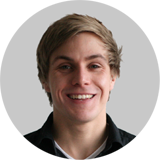
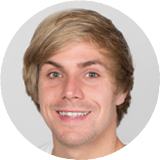
added different images to carousel and updated developer image

diff --git a/index.html b/index.html
@@ -195,13 +195,13 @@
                 </ol>
               <div class="carousel-inner">
                 <div class="carousel-item active">
-                  <img class="d-block w-80" src="assets/images/gallery/carousel1.jpg" alt="First slide">
+                  <img class="d-block w-80" src="assets/images/gallery/carousel1.png" alt="First slide">
                 </div>
                 <div class="carousel-item">
-                  <img class="d-block w-100" src="assets/images/gallery/carousel1.jpg" alt="Second slide">
+                  <img class="d-block w-100" src="assets/images/gallery/carousel2.png" alt="Second slide">
                 </div>
                 <div class="carousel-item">
-                  <img class="d-block w-100" src="assets/images/gallery/carousel1.jpg" alt="Third slide">
+                  <img class="d-block w-100" src="assets/images/gallery/carousel3.png" alt="Third slide">
                 </div>
               </div>
               <a class="carousel-control-prev" href="#carouselExampleControls" role="button" data-slide="prev">
@@ -213,7 +213,6 @@
                 <span class="sr-only">Next</span>
               </a>
             </div>
-            <!--//carousel-->
         </div>
         <!--//container-->
     </section>
@@ -473,7 +472,7 @@
                             <a target="_blank" rel="noopener noreferrer" href="https://www.uni-ulm.de/en/in/mi/institute/mi-mitarbeiter/timo-ropinski/">
                                 <div class="image-container">
                                     <div class="image-overlay"></div>
-                                    <img class="img-responsive" src="assets/images/timo_ropinski.png" alt="" />
+                                    <img class="img-responsive" src="assets/images/timo_ropinski.png" alt="Timo Ropinski" />
                                 </div>
                                 <!--//image-container-->
                                 <h3 class="title">Timo Ropinski</h3>
@@ -488,7 +487,7 @@
                             <a target="_blank" rel="noopener noreferrer" href="http://scivis.itn.liu.se/members/peter-steneteg">
                                 <div class="image-container">
                                     <div class="image-overlay"></div>
-                                    <img class="img-responsive" src="assets/images/peter_steneteg.png" alt="" />
+                                    <img class="img-responsive" src="assets/images/peter_steneteg.png" alt="Peter Steneteg" />
                                 </div>
                                 <!--//image-container-->
                                 <h3 class="title">Peter Steneteg</h3>
@@ -503,7 +502,7 @@
                             <a target="_blank" rel="noopener noreferrer" href="http://scivis.itn.liu.se/members/rickard-englund">
                                 <div class="image-container">
                                     <div class="image-overlay"></div>
-                                    <img class="img-responsive" src="assets/images/rickard_englund.png" alt="" />
+                                    <img class="img-responsive" src="assets/images/rickard_englund.png" alt="Rickard Englund" />
                                 </div>
                                 <!--//image-container-->
                                 <h3 class="title">Rickard Englund</h3>
@@ -518,7 +517,7 @@
                             <a target="_blank" rel="noopener noreferrer" href="http://scivis.itn.liu.se/members/daniel-jonsson">
                                 <div class="image-container">
                                     <div class="image-overlay"></div>
-                                    <img class="img-responsive" src="assets/images/daniel_jonsson.png" alt="" />
+                                    <img class="img-responsive" src="assets/images/daniel_jonsson.png" alt="Daniel Jönsson" />
                                 </div>
                                 <!--//image-container-->
                                 <h3 class="title">Daniel Jönsson</h3>
@@ -533,7 +532,7 @@
                             <a target="_blank" rel="noopener noreferrer" href="http://scivis.itn.liu.se/members/martin-falk">
                                 <div class="image-container">
                                     <div class="image-overlay"></div>
-                                    <img class="img-responsive" src="assets/images/martin_falk.png" alt="" />
+                                    <img class="img-responsive" src="assets/images/martin_falk.png" alt="Martin Falk" />
                                 </div>
                                 <!--//image-container-->
                                 <h3 class="title">Martin Falk</h3>
@@ -548,7 +547,7 @@
                             <a target="_blank" rel="noopener noreferrer" href="http://scivis.itn.liu.se/members/erik-sunden">
                                 <div class="image-container">
                                     <div class="image-overlay"></div>
-                                    <img class="img-responsive" src="assets/images/erik_sunden.png" alt="" />
+                                    <img class="img-responsive" src="assets/images/erik_sunden.png" alt="Erik Sundén" />
                                 </div>
                                 <!--//image-container-->
                                 <h3 class="title">Erik Sundén</h3>
@@ -563,7 +562,7 @@
                             <a target="_blank" rel="noopener noreferrer" href="http://scivis.itn.liu.se/members/sathish-kottravel">
                                 <div class="image-container">
                                     <div class="image-overlay"></div>
-                                    <img class="img-responsive" src="assets/images/sathish_kottravel.png" alt="" />
+                                    <img class="img-responsive" src="assets/images/sathish_kottravel.png" alt="Sathish Kottravel" />
                                 </div>
                                 <!--//image-container-->
                                 <h3 class="title">Sathish Kottravel</h3>
@@ -578,7 +577,7 @@
                             <a target="_blank" rel="noopener noreferrer" href="http://scivis.itn.liu.se/members/jochen-jankowai">
                                 <div class="image-container">
                                     <div class="image-overlay"></div>
-                                    <img class="img-responsive" src="assets/images/jochen_jankowai.png" alt="" />
+                                    <img class="img-responsive" src="assets/images/jochen_jankowai.png" alt="Jochen Jankowai" />
                                 </div>
                                 <!--//image-container-->
                                 <h3 class="title">Jochen Jankowai</h3>
@@ -593,7 +592,7 @@
                             <a target="_blank" rel="noopener noreferrer" href="http://scivis.itn.liu.se/members/robin-sklnberg">
                                 <div class="image-container">
                                     <div class="image-overlay"></div>
-                                    <img class="img-responsive" src="assets/images/robin_skanberg.png" alt="" />
+                                    <img class="img-responsive" src="assets/images/robin_skanberg.png" alt="Robin Skånberg" />
                                 </div>
                                 <!--//image-container-->
                                 <h3 class="title">Robin Skånberg</h3>
@@ -608,7 +607,7 @@
                             <a target="_blank" rel="noopener noreferrer" href="https://www.uni-ulm.de/in/mi/institut/mi-mitarbeiter/julian-kreiser/">
                                 <div class="image-container">
                                     <div class="image-overlay"></div>
-                                    <img class="img-responsive" src="assets/images/julian_kreiser.png" alt="" />
+                                    <img class="img-responsive" src="assets/images/julian_kreiser.png" alt="Julian Kreiser" />
                                 </div>
                                 <!--//image-container-->
                                 <h3 class="title">Julian Kreiser</h3>
@@ -661,7 +660,7 @@
     <footer class="footer">
         <div class="container text-center">
             <!--/* This template is released under the Creative Commons Attribution 3.0 License. Please keep the attribution link below when using for your own project. Thank you for your support. :) If you'd like to use the template without the attribution, you can check out other license options via our website: themes.3rdwavemedia.com */-->
-            <small class="copyright">Designed with <i class="fa fa-heart"></i> by <a href="http://themes.3rdwavemedia.com" target="_blank">Xiaoying Riley</a> for developers</small>
+            <small class="copyright">Website template designed by <a href="http://themes.3rdwavemedia.com" target="_blank">Xiaoying Riley</a></small>
         </div>
         <!--//container-->
     </footer>
